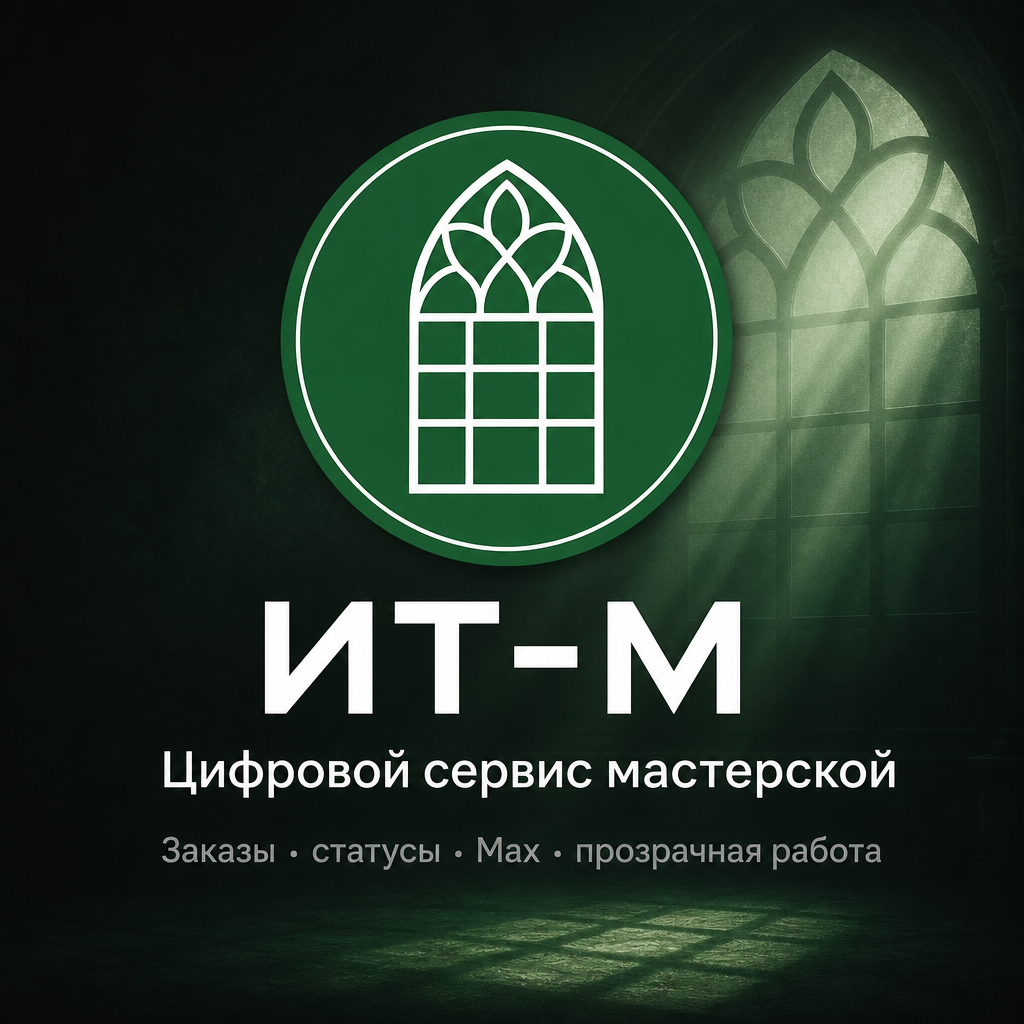
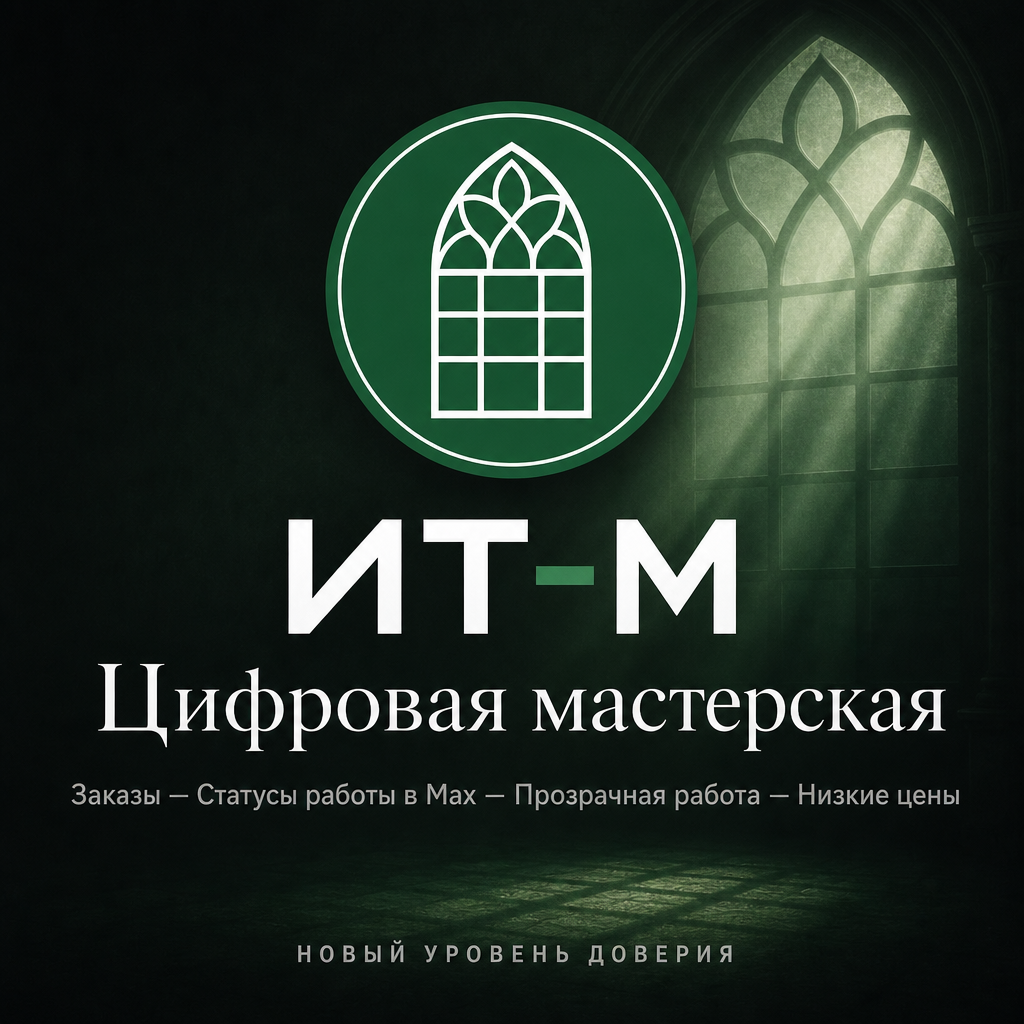
Update promo copy: Цифровая мастерская and benefit line.

Changed region(s): [[0.0625, 0.0312, 0.9688, 1.0]]

diff --git a/workshop/static/workshop/promo/itm-crm-promo.html b/workshop/static/workshop/promo/itm-crm-promo.html
@@ -278,8 +278,8 @@
       </div>
       <h1 class="brand">ИТ<span>-</span>М</h1>
       <div class="line" aria-hidden="true"></div>
-      <p class="headline">Цифровой сервис мастерской</p>
-      <p class="support">Заказы · статусы · Max · прозрачная работа</p>
+      <p class="headline">Цифровая мастерская</p>
+      <p class="support">Заказы — Статусы работы в Max — Прозрачная работа — Низкие цены</p>
       <div class="footer-note">новый уровень доверия</div>
     </div>
   </section>
@@ -294,8 +294,8 @@
       <div class="copy">
         <h1 class="brand">ИТ<span>-</span>М</h1>
         <div class="line" aria-hidden="true"></div>
-        <p class="headline">Цифровой сервис мастерской</p>
-        <p class="support">Каждый заказ с номером и статусом. Уведомления в Max. Прозрачная оплата.</p>
+        <p class="headline">Цифровая мастерская</p>
+        <p class="support">Заказы — Статусы работы в Max — Прозрачная работа — Низкие цены</p>
       </div>
       <div class="footer-note">новый уровень доверия</div>
     </div>
